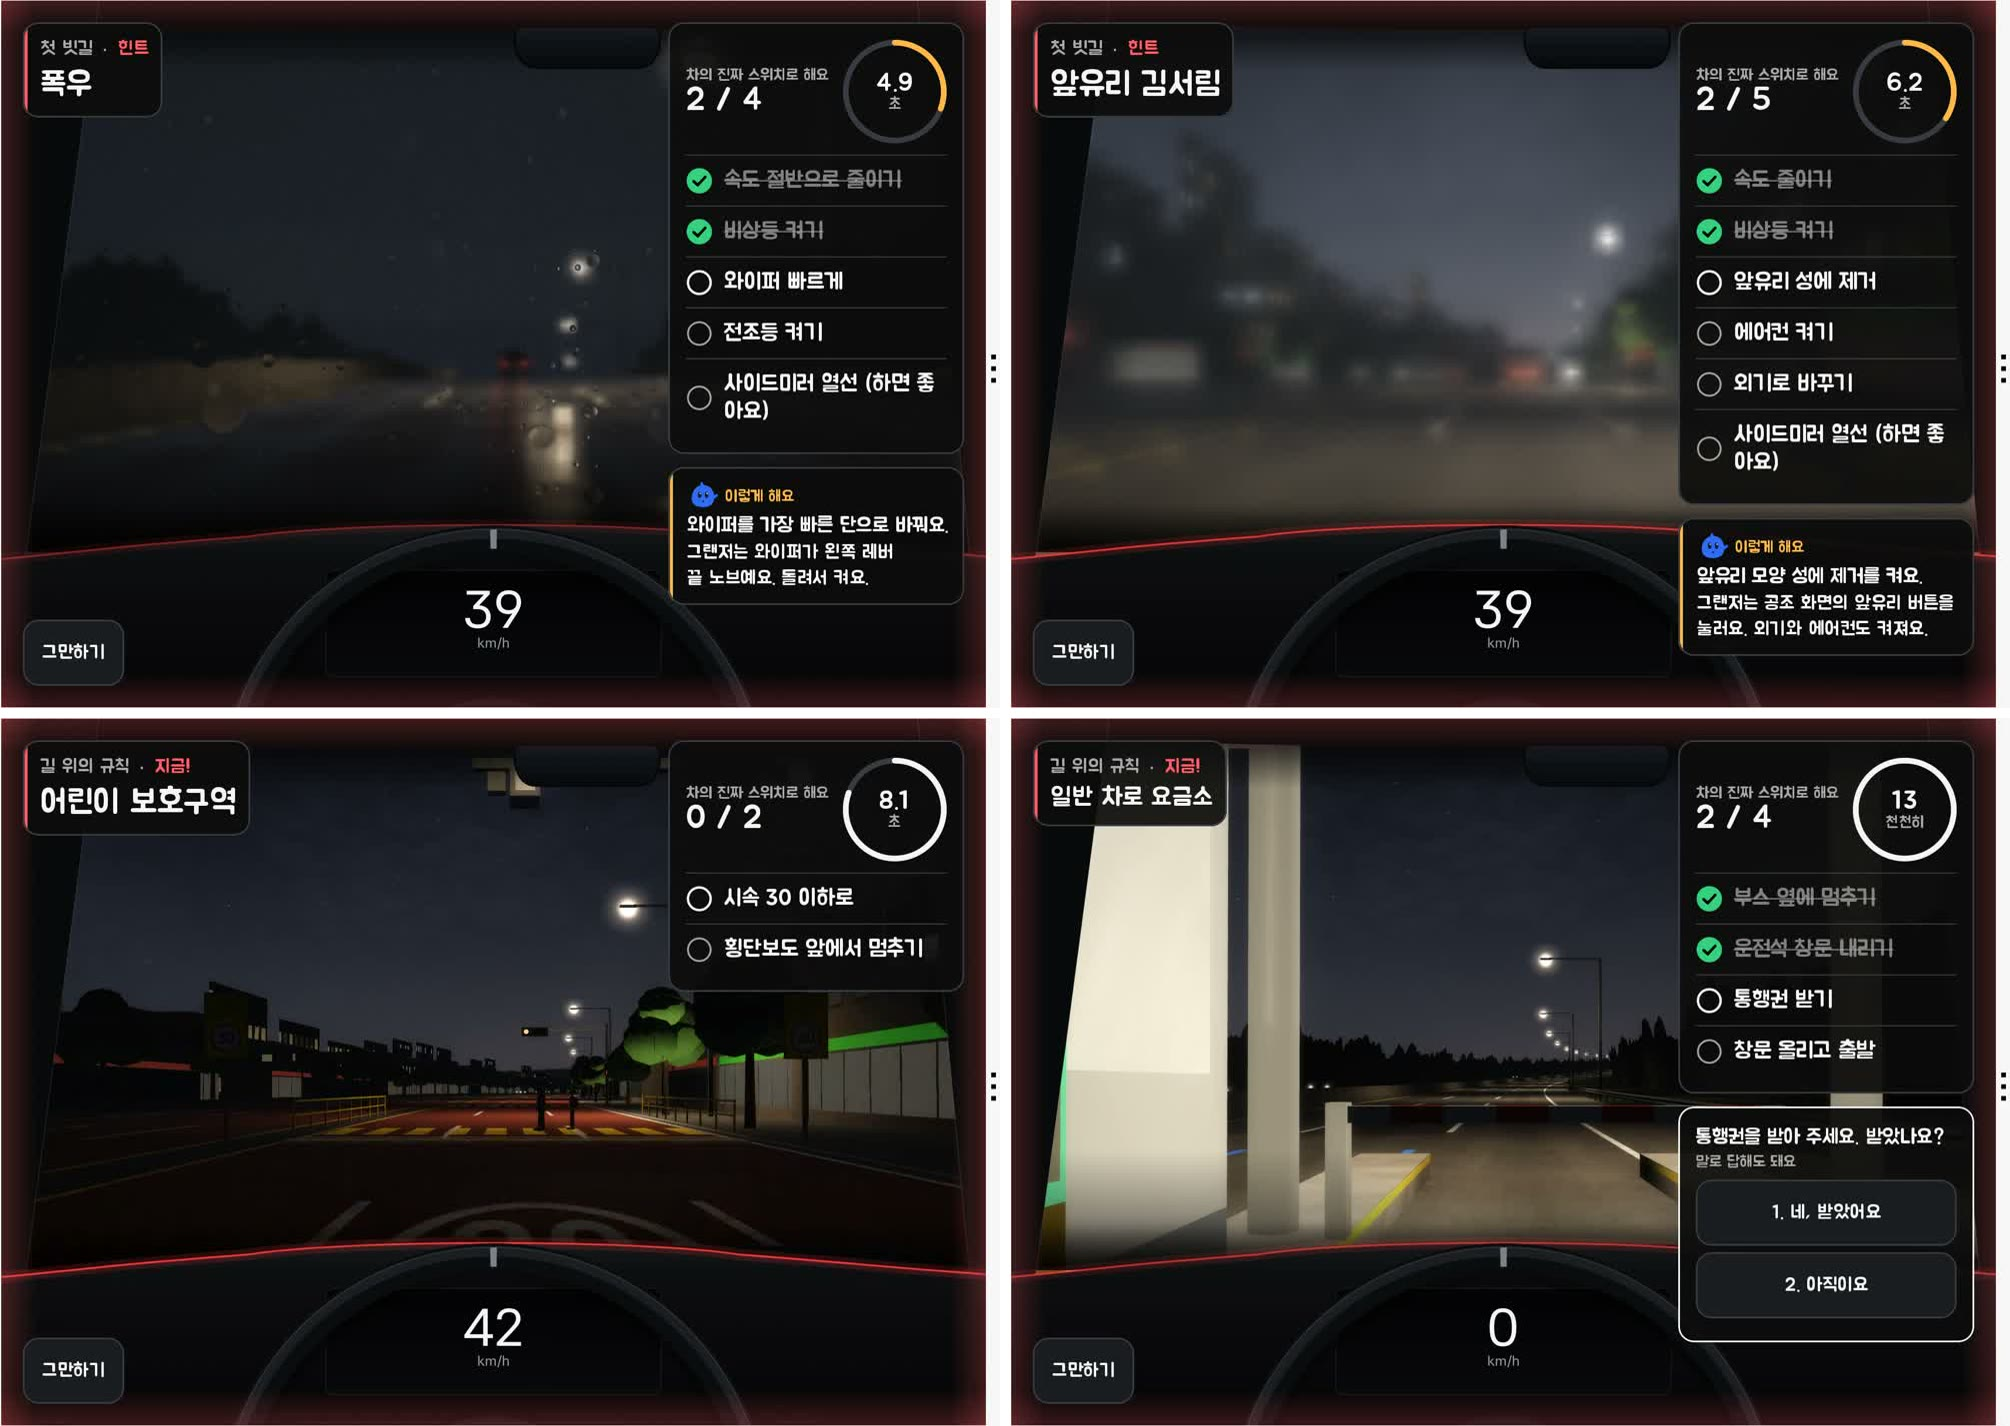
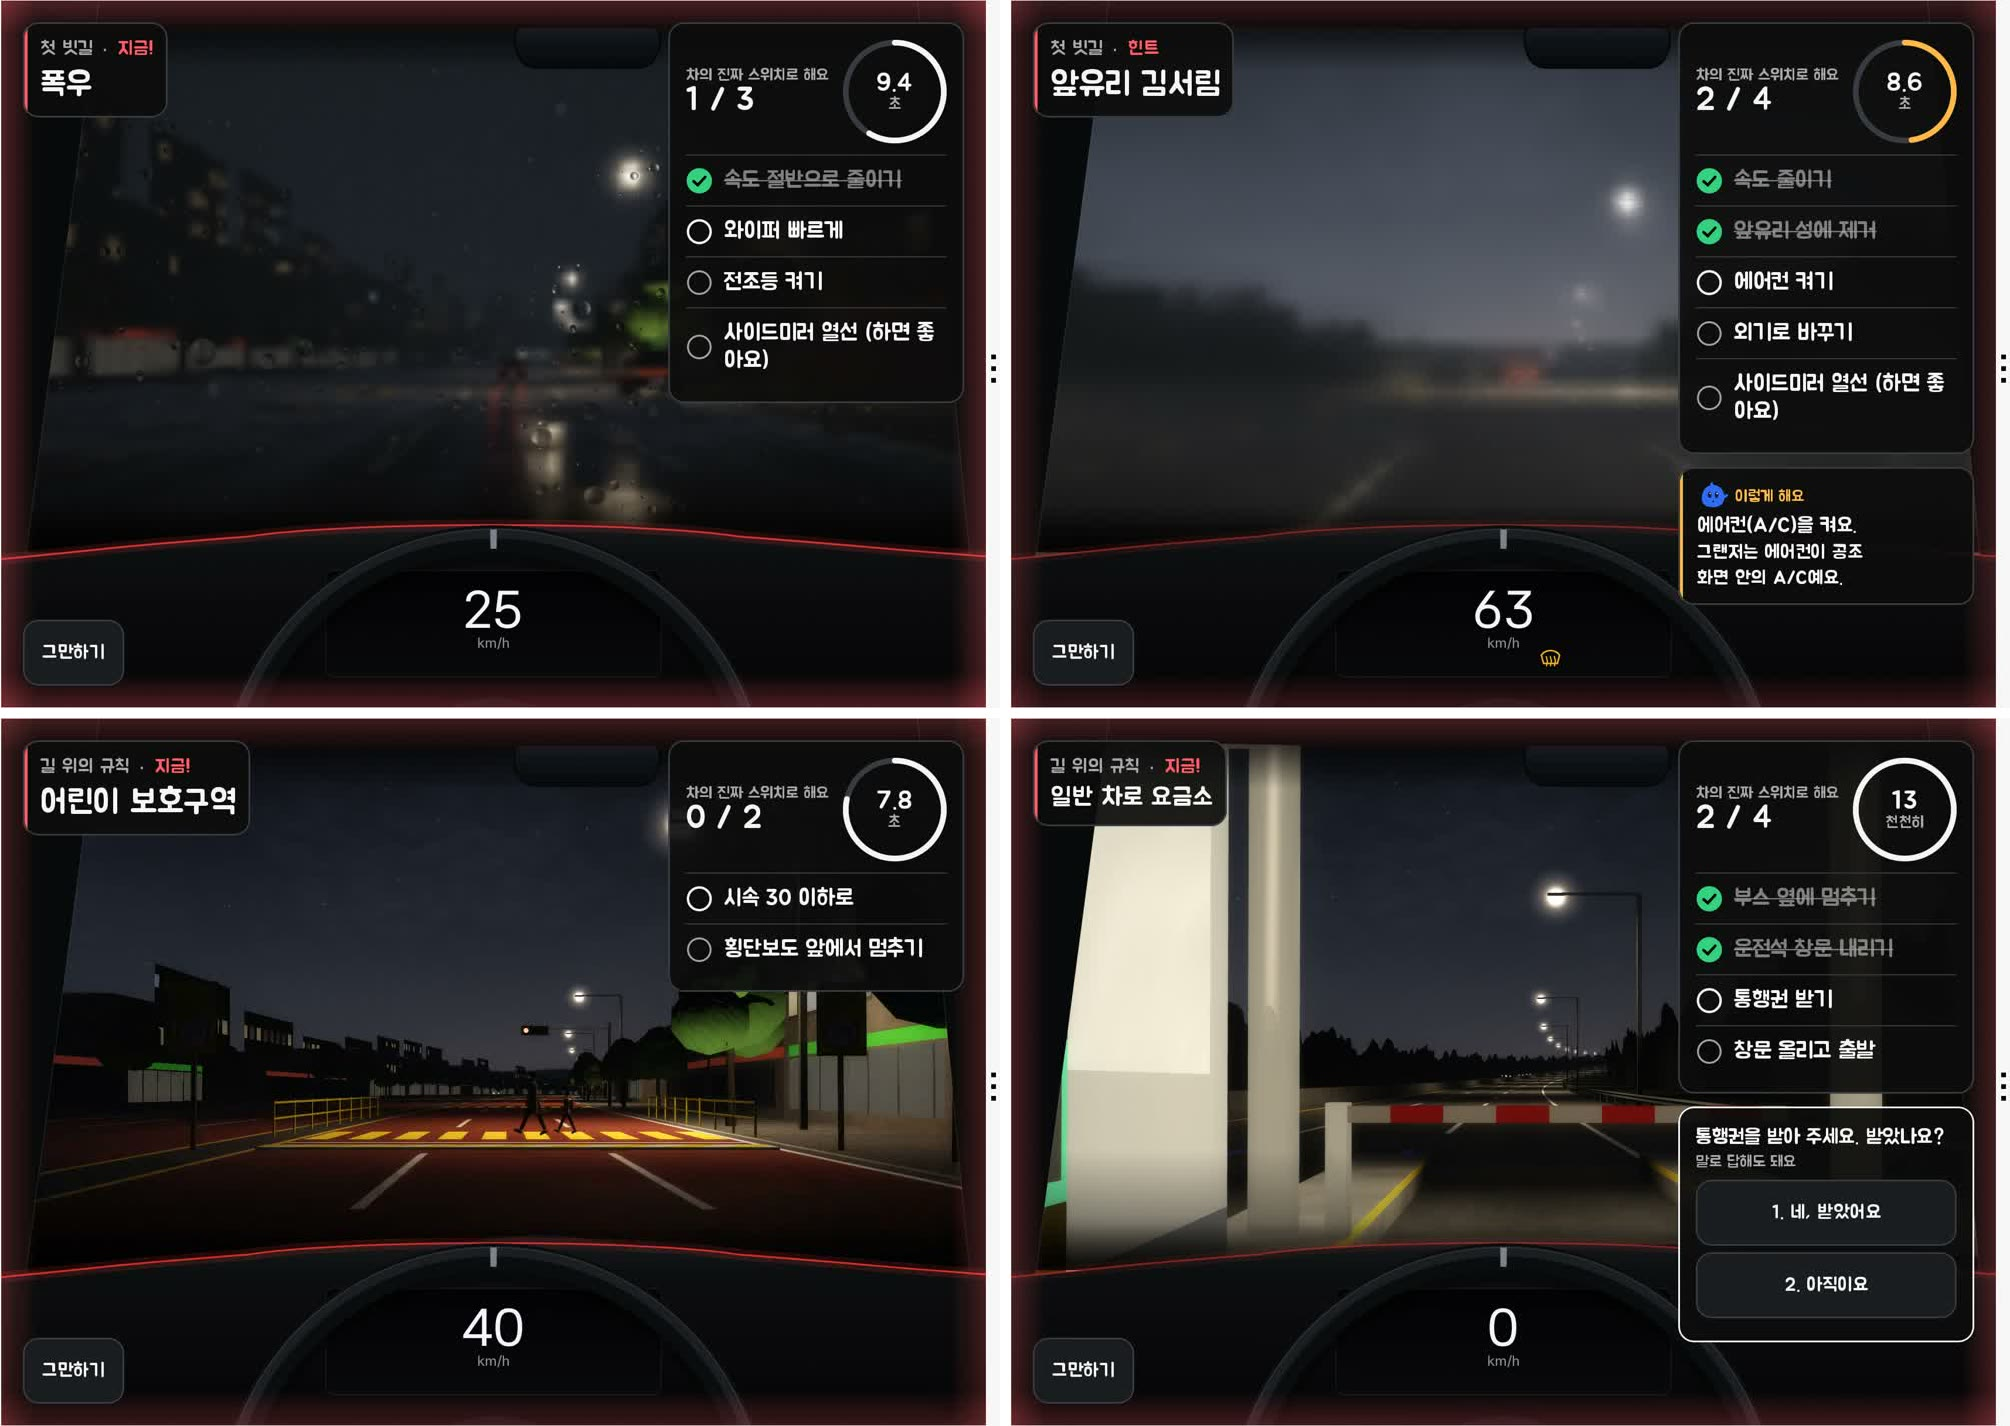
기획서: 그림을 v27 화면으로 교체, 대화 시나리오의 말로 답하는 장면을 요금소로

diff --git a/docs/plan/video/conversation-scenario.html b/docs/plan/video/conversation-scenario.html
@@ -1,0 +1,76 @@
+<!doctype html><html lang="ko"><head><meta charset="utf-8"><title>타비 대화 장면 촬영 시나리오</title>
+<style>
+@page{size:A4;margin:16mm 15mm}
+body{font-family:"Pretendard","Apple SD Gothic Neo",sans-serif;color:#111;font-size:11pt;line-height:1.55}
+h1{font-size:20pt;margin:0 0 2mm}
+h2{font-size:13.5pt;margin:7mm 0 2mm;border-bottom:1.5px solid #2f6bf2;padding-bottom:1mm}
+.sub{color:#555;margin:0 0 4mm}
+table{width:100%;border-collapse:collapse;margin:2mm 0 3mm;font-size:10pt}
+th,td{border:1px solid #c9d0da;padding:2mm 2.4mm;vertical-align:top;text-align:left}
+th{background:#eef2f8}
+.say{font-weight:700;color:#1146c9}
+.box{background:#f4f7fb;border-left:4px solid #2f6bf2;padding:2.5mm 3.5mm;margin:2mm 0}
+.warn{background:#fff6e5;border-left:4px solid #e89b00;padding:2.5mm 3.5mm;margin:2mm 0}
+ol,ul{margin:1mm 0 2mm 5mm;padding-left:4mm}
+.scene{page-break-inside:avoid}
+small{color:#666}
+</style></head><body>
+<h1>타비 대화 장면 촬영 시나리오</h1>
+<p class="sub">직접 목소리로 타비와 대화하는 장면만 모았어요. 기능 클립(훈련, 주행 코치, 리뷰)은 따로 녹화해요. 전부 찍으면 6~8분, 영상에는 그 가운데 좋은 것만 써요.</p>
+
+<h2>1. 찍기 전에</h2>
+<div class="box">
+<b>준비는 제가 해 둘게요.</b> 촬영용 에뮬레이터 창을 하나 띄우고, AI가 답하는 개발 빌드를 설치하고, 차종을 "더 뉴 그랜저"로 골라 홈 화면까지 가 둔 상태로 드려요. 기어를 바꾸는 것(P ↔ D)과 다음 장면으로 넘기는 것도 말씀하시면 제가 해요.
+</div>
+<ol>
+<li><b>맥 화면 녹화를 켜요.</b> <code>Shift + Command + 5</code> → "선택 부분 기록"으로 에뮬레이터의 오른쪽 앱 영역을 잡고 → 옵션에서 <b>마이크: MacBook 마이크</b>를 고른 뒤 기록. 내 목소리와 스피커로 나오는 타비 목소리가 함께 들어가요.</li>
+<li><b>맥 소리를 평소 듣는 크기로 올려요.</b> 타비 목소리가 스피커로 나와야 녹음돼요. 이어폰은 빼요.</li>
+<li><b>조용한 곳에서, 화면에서 팔 하나 거리.</b> 타비가 말을 끝낸 뒤 반 박자 쉬고 말해요. 겹치면 편집이 어려워요.</li>
+<li>장면마다 <b>시작 전에 2초, 끝난 뒤 2초</b>를 가만히 둬요. 자르기 쉬워져요.</li>
+<li>마음에 안 들면 그 장면만 다시 해요. 녹화는 끊지 않아도 돼요.</li>
+</ol>
+<div class="warn"><b>처음 한 번:</b> 에뮬레이터가 맥 마이크를 쓰려면 권한이 필요해요. "시스템 설정 → 개인정보 보호 및 보안 → 마이크"에 에뮬레이터(qemu) 항목이 뜨면 허용해 주세요. 이건 제가 대신 할 수 없어요. 허용한 뒤 "질문하기"를 눌러 "듣고 있어요"에서 말했을 때 화면에 받아쓴 글자가 뜨면 된 거예요.</div>
+
+<h2>2. 장면</h2>
+<p><small>파란 글자가 직접 말하실 대사예요. 대사는 자연스럽게 바꿔도 돼요. 타비의 답은 AI가 그때그때 만들어서 아래 예시와 문장이 다를 수 있어요.</small></p>
+
+<div class="scene"><table>
+<tr><th style="width:8%">장면</th><th style="width:20%">상태</th><th style="width:36%">하는 것</th><th>화면에서 볼 것</th></tr>
+<tr><td>A1</td><td>정차(P), 홈</td><td>"질문하기"를 누르고<br><span class="say">"와이퍼는 어디에 있어?"</span></td><td>타비가 듣는 표정 → 생각 → 말하는 표정. 그랜저 기준 위치를 답해요("핸들 오른쪽 레버…").</td></tr>
+<tr><td>A2</td><td>정차(P), 홈</td><td>"질문하기"를 누르고<br><span class="say">"앞유리에 김이 서리면 어떻게 해?"</span></td><td>성에 제거, 에어컨, 외기 전환을 순서대로 알려 줘요.</td></tr>
+<tr><td>A3</td><td>정차(P), 홈</td><td>"질문하기"를 누르고<br><span class="say">"타이어 경고등이 떴는데 계속 가도 돼?"</span></td><td>대처 방법을 답해요. 이 차의 실제 경고등 상태는 타비가 볼 수 없다는 점도 말할 수 있어요.</td></tr>
+<tr><td>A4</td><td>정차(P), 홈</td><td>"질문하기"를 누르고<br><span class="say">"오늘 저녁 뭐 먹을까?"</span></td><td>운전과 상관없는 질문은 정중히 거절해요. "운전 이야기만 도와 드려요" 같은 답.</td></tr>
+</table></div>
+
+<div class="scene"><table>
+<tr><th style="width:8%">장면</th><th style="width:20%">상태</th><th style="width:36%">하는 것</th><th>화면에서 볼 것</th></tr>
+<tr><td>B1</td><td>주행(D), 코치 화면<br><small>기어는 제가 바꿔요</small></td><td>화면을 누르지 않고<br><span class="say">"타비야, 성에 제거 버튼 어디야?"</span></td><td>"타비야"에 확인음이 나고 상태가 "듣고 있어요"로 바뀌어요. 한두 문장으로 짧게 답해요.</td></tr>
+<tr><td>B2</td><td>주행(D)</td><td><span class="say">"타비야, 고속도로에서 졸리면 어떻게 해?"</span></td><td>창문 열기, 외기, 휴게소를 권해요.</td></tr>
+<tr><td>B3</td><td>주행(D)<br><small>와이퍼를 켜고 전조등을 끈 상태로 제가 맞춰 둬요</small></td><td>타비가 먼저 "비가 와요. 전조등을 켜 주세요."라고 말하면<br><span class="say">"타비야, 전조등은 어디서 켜?"</span></td><td>타비가 먼저 말을 건 뒤 이어서 묻는 흐름. 영상에서 가장 쓰기 좋은 장면이에요.</td></tr>
+<tr><td>B4</td><td>주행(D)</td><td><span class="say">"헤이 글레오, 음악 틀어 줘"</span></td><td>타비가 대답하지 않고 물러나요(차량 비서에 양보). 화면 상태 문구가 바뀌어요.</td></tr>
+</table></div>
+
+<div class="scene"><table>
+<tr><th style="width:8%">장면</th><th style="width:20%">상태</th><th style="width:36%">하는 것</th><th>화면에서 볼 것</th></tr>
+<tr><td>C1</td><td>정차(P), 훈련 "길 위의 규칙"의 일반 차로 요금소<br><small>브레이크와 창문 조작은 제가 해요</small></td><td>타비가 "통행권을 받아 주세요. 받았나요?"라고 물으면<br><span class="say">"네, 받았어요"</span></td><td>말로 답하면 조작 목록의 "통행권 받기"에 체크가 붙어요.</td></tr>
+<tr><td>C2</td><td>정차(P), 훈련 "멈춰야 할 때"의 고장 정차</td><td>타비가 보기를 읽어 주면 맞는 번호를<br><span class="say">"2번"</span> <small>(보기 순서는 매번 달라요. 화면을 보고 맞는 번호로)</small></td><td>말로 퀴즈에 답하는 장면.</td></tr>
+<tr><td>D1</td><td>주차(P) 뒤, 리뷰 화면</td><td>타비의 총평이 끝난 뒤 "질문하기"를 누르고<br><span class="say">"왜 외기로 바꿔야 해?"</span></td><td>방금 주행에서 들은 조언을 되묻는 흐름.</td></tr>
+<tr><td>D2</td><td>리뷰 화면</td><td><span class="say">"다음에는 뭘 연습하면 좋을까?"</span></td><td>주행 내용에 맞는 연습을 권해요.</td></tr>
+</table></div>
+
+<h2>3. 꼭 찍을 것과 여유 되면 찍을 것</h2>
+<ul>
+<li><b>꼭:</b> A1(스위치 위치), B3(타비가 먼저 말하고 이어서 대화), C1(훈련 중 말로 답), D1(리뷰에서 되묻기)</li>
+<li><b>여유 되면:</b> A2, A4, B1, B4, C2, D2</li>
+</ul>
+
+<h2>4. 잘 안 될 때</h2>
+<table>
+<tr><th style="width:38%">증상</th><th>이렇게 해요</th></tr>
+<tr><td>"듣고 있어요"에서 말해도 글자가 안 떠요</td><td>맥 마이크 권한을 확인해요(1번의 노란 상자). 그래도 안 되면 알려 주세요. 녹음한 목소리를 넣는 방식으로 바꿀 수 있어요.</td></tr>
+<tr><td>"타비야"를 못 알아들어요</td><td>"타비야"를 또렷하게 말하고 반 박자 쉰 뒤 질문해요. 두 번 해도 안 되면 화면의 "질문하기"를 눌러요.</td></tr>
+<tr><td>답이 늦거나 "정확히 몰라요"라고 해요</td><td>인터넷 연결 문제일 수 있어요. 알려 주시면 확인해요.</td></tr>
+<tr><td>타비 목소리가 녹화에 작게 들어가요</td><td>맥 소리를 올리고 다시 찍어요. 편집에서 키울 수도 있어요.</td></tr>
+</table>
+<p><small>녹화 파일은 프로젝트 폴더의 <code>docs/plan/video/clips-user/</code>에 넣어 주시면 돼요. 파일 이름은 아무거나 괜찮아요.</small></p>
+</body></html>

diff --git a/docs/plan/application-draft.md b/docs/plan/application-draft.md
@@ -230,7 +230,7 @@
 | core (순수 로직) | 훈련 판정과 점수, 코치 규칙과 말수 제한, 경로와 훈련 짝짓기, 미니게임 |
 | 음성 계층 | Pleos TTS·STT, AI 에이전트(글자만 주고받음), 효과음 |
 
-- 판정, 점수, 코치 규칙은 안드로이드와 분리한 순수 로직으로 만들고 자동 테스트 260여 개로 검증해요.
+- 판정, 점수, 코치 규칙은 안드로이드와 분리한 순수 로직으로 만들고 자동 테스트 270개로 검증해요.
 - 훈련 장면은 외부 3D 모델 없이 코드로 그린 3D예요(three.js). 판정은 core가 하고, 장면은 차량 신호를 따라 그리기만 해요.
 - **리소스 기준 준수**(에뮬레이터 release 실측): 정차 훈련 중 CPU 평균 16%대·최대 19.4%, 30fps, 메모리 228~254MB. 운전 중에는 3D를 쓰지 않아 CPU 평균 0.11%예요. 공모전 기준(정차 25%, 주행 5%, 메모리 400MB) 안이에요. 실제 차량에서는 아직 재지 못했어요.
 - 화면은 Pleos Connect 시스템 스타일(주간·야간)에 맞췄어요. 코치 타비는 캐릭터로 나와서 듣는 중, 생각하는 중, 말하는 중, 기쁨, 놀람, 격려를 표정으로 보여 줘요. 운전 중 화면에서는 움직이지 않아요.
